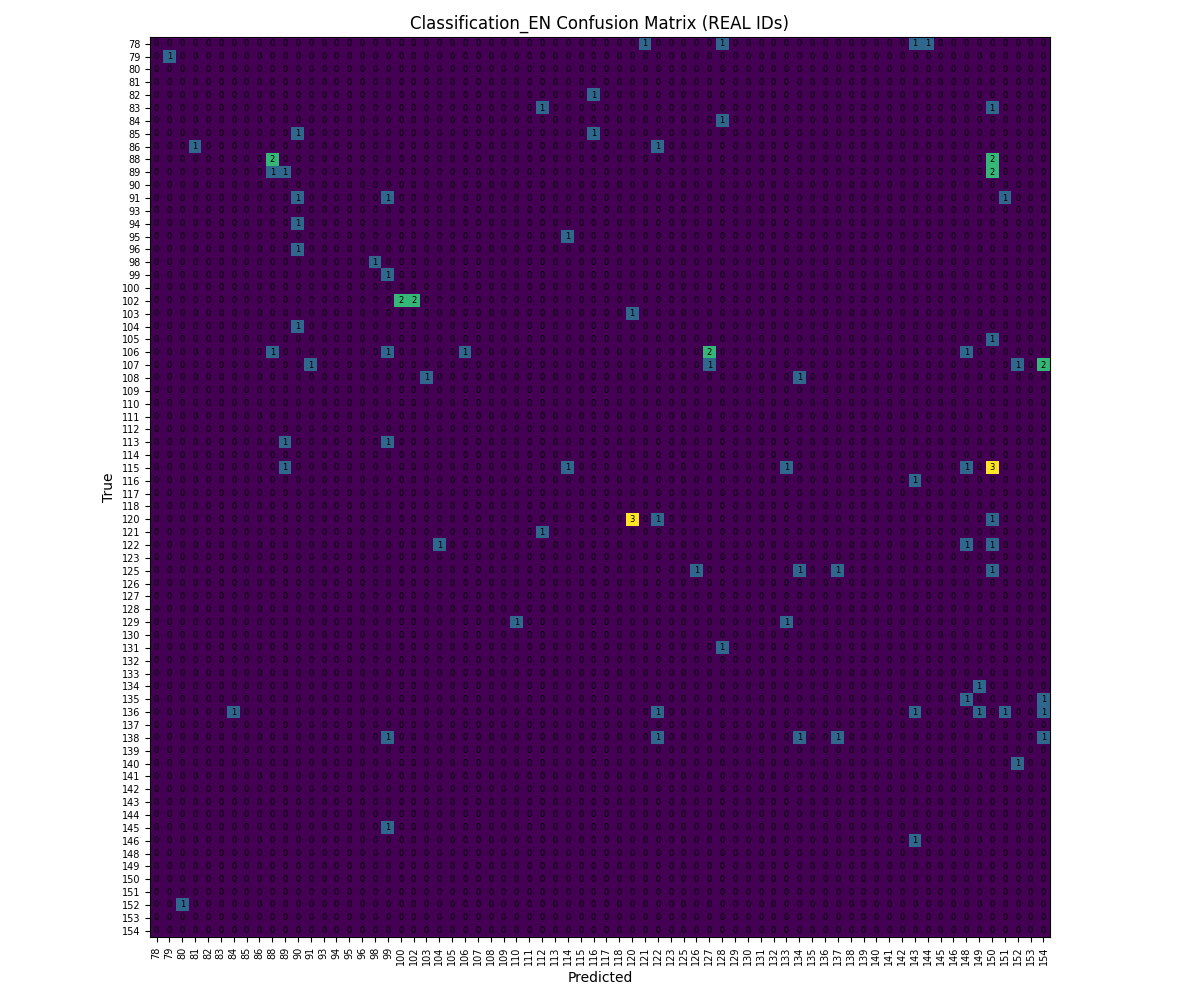
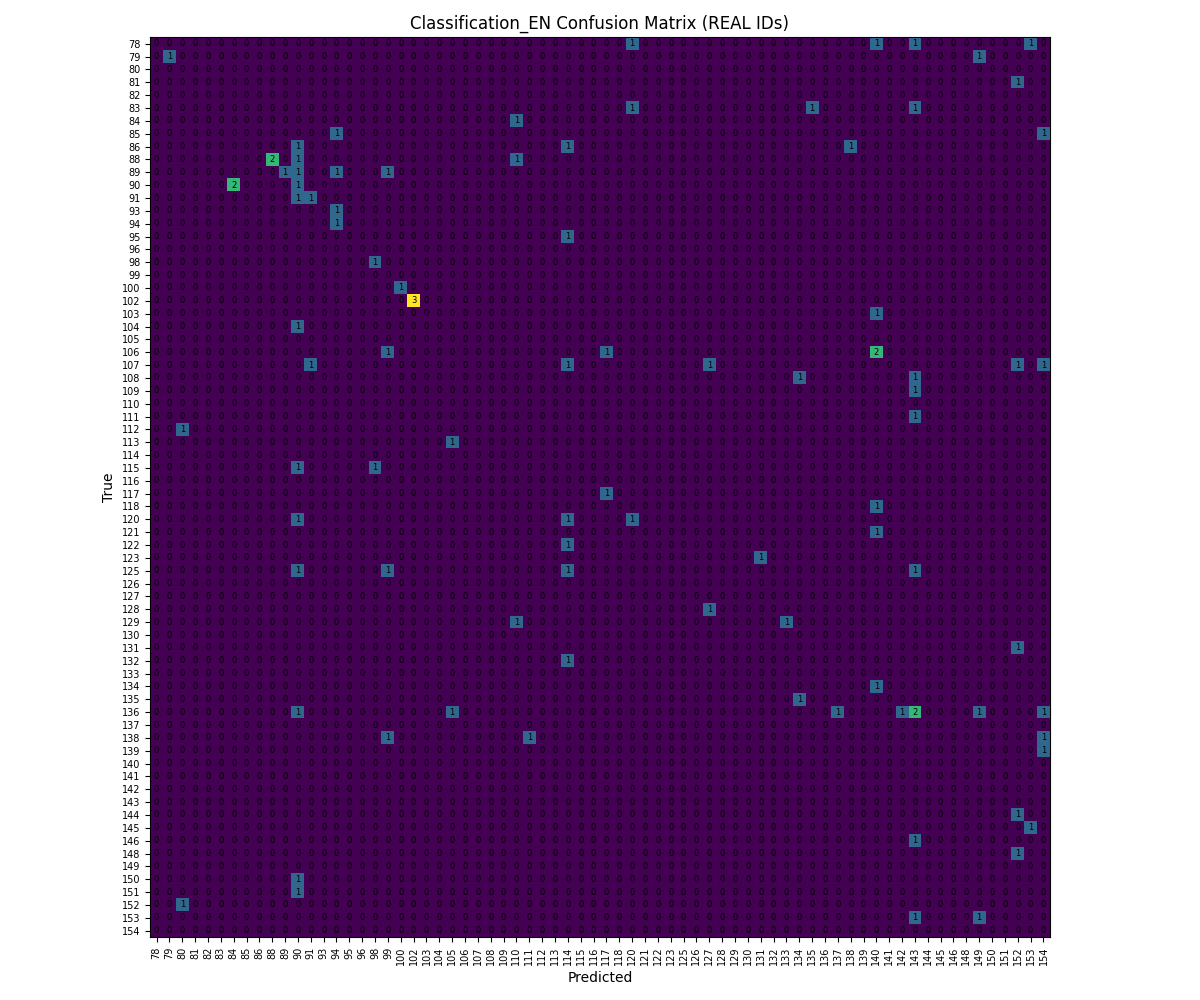
Some edits as well

diff --git a/backend/api/services/user_management_service.py b/backend/api/services/user_management_service.py
@@ -66,7 +66,7 @@ def delete_user_service(user_id: int) -> Dict[str, Any]:
         user = get_user_by_id(conn, user_id)
         
         if not user:
-            raise ValueError(f"User with ID {user_id} not found")
+            raise Exception(f"User with ID {user_id} not found")
         
         username = user.Username
         
@@ -74,14 +74,14 @@ def delete_user_service(user_id: int) -> Dict[str, Any]:
         
         # Block software_admin username (primary system admin account)
         if username.lower() == "software_admin":
-            raise PermissionError(
+            raise Exception(
                 f"Cannot delete protected account 'software_admin'. "
                 f"This is the primary system administrator account."
             )
         
         # Block any user with SOFTWARE_ADMIN role
         if user_has_software_admin_role(conn, user_id):
-            raise PermissionError(
+            raise Exception(
                 f"Cannot delete user '{username}' because they have SOFTWARE_ADMIN role. "
                 f"Remove SOFTWARE_ADMIN role first or use a different method."
             )
@@ -101,14 +101,8 @@ def delete_user_service(user_id: int) -> Dict[str, Any]:
             "deleted_username": username
         }
         
-    except (ValueError, PermissionError):
-        # Re-raise these expected exceptions as-is for proper HTTP status codes
-        if conn:
-            conn.rollback()
-        raise
-        
     except Exception as e:
-        # Rollback on unexpected error
+        # Rollback on error
         if conn:
             conn.rollback()
         raise Exception(f"Failed to delete user: {str(e)}")
